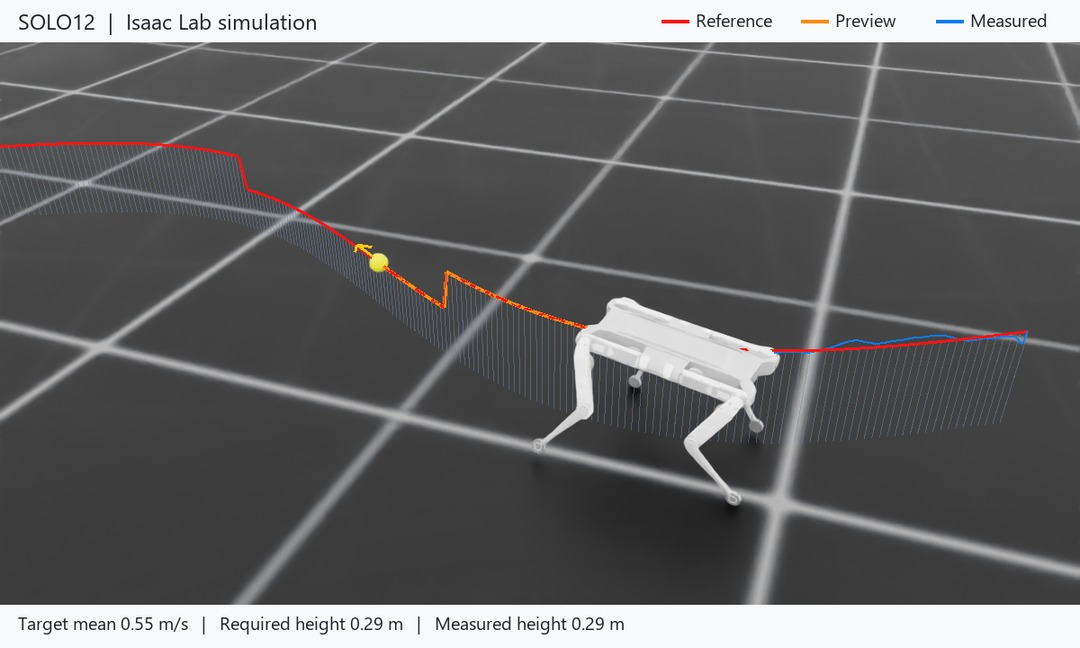
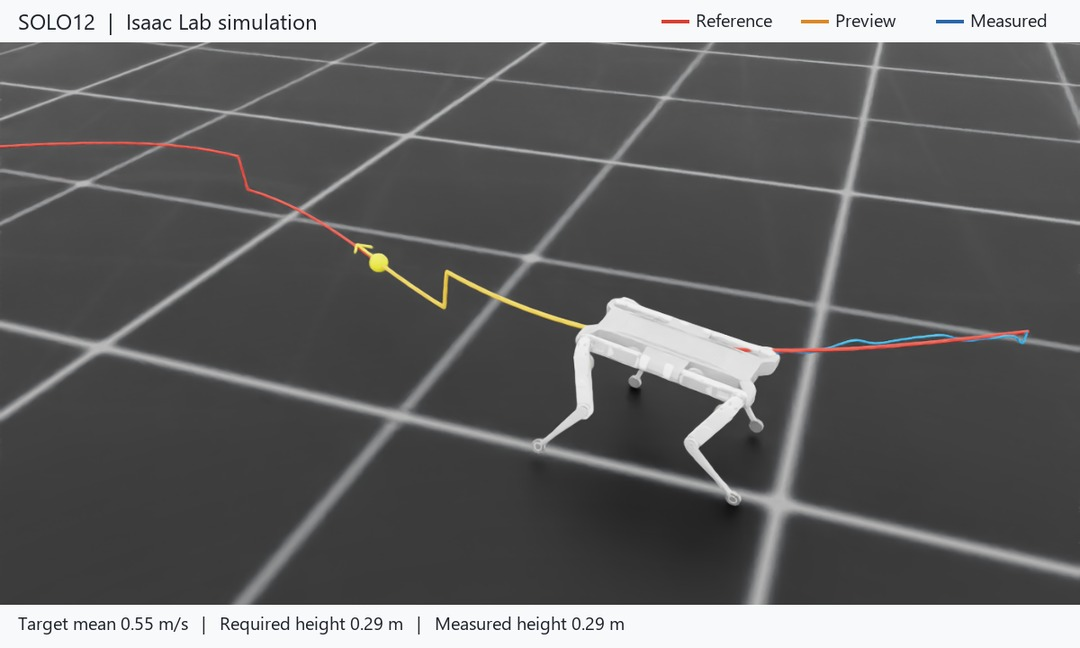
Add clean height-aware viewer preset and refresh demo media

diff --git a/scripts/diffusion_policy/visualization/shaded_lines.py b/scripts/diffusion_policy/visualization/shaded_lines.py
@@ -1,0 +1,94 @@
+"""Shaded, non-colliding line geometry for the optional clean viewer preset."""
+from __future__ import annotations
+import numpy as np
+
+
+def tube_geometry(starts, ends, diameters, *, sides=6):
+    """Preserve line centre coordinates, including vertical height changes."""
+    starts, ends = np.asarray(starts, dtype=float), np.asarray(ends, dtype=float)
+    widths = np.asarray(diameters, dtype=float)
+    if starts.ndim != 2 or starts.shape[1] != 3 or ends.shape != starts.shape:
+        raise ValueError("Line endpoints must have matching (N, 3) shapes.")
+    if widths.shape != (len(starts),) or sides < 3:
+        raise ValueError("One diameter per segment and at least three sides are required.")
+    if not all(np.isfinite(x).all() for x in (starts, ends, widths)) or (widths <= 0).any():
+        raise ValueError("Geometry must be finite and diameters positive.")
+    delta = ends - starts
+    length = np.linalg.norm(delta, axis=1)
+    keep = length > 1e-8
+    starts, ends, widths, delta, length = starts[keep], ends[keep], widths[keep], delta[keep], length[keep]
+    if not len(starts):
+        return np.empty((0, 3), dtype=np.float32), []
+    direction = delta / length[:, None]
+    reference = np.tile([0., 0., 1.], (len(starts), 1))
+    reference[np.abs(direction[:, 2]) > .9] = [0., 1., 0.]
+    lateral = np.cross(direction, reference)
+    lateral /= np.linalg.norm(lateral, axis=1)[:, None]
+    normal = np.cross(direction, lateral)
+    angles = np.arange(sides) * (2*np.pi/sides)
+    radial = (np.cos(angles)[None, :, None]*lateral[:, None, :]
+              + np.sin(angles)[None, :, None]*normal[:, None, :]) * widths[:, None, None]/2
+    points = np.concatenate([starts[:, None, :]+radial, ends[:, None, :]+radial], axis=1)
+    faces = []
+    for segment in range(len(starts)):
+        offset = segment*2*sides
+        for side in range(sides):
+            following = (side+1)%sides
+            faces.extend([offset+side, offset+following, offset+sides+following, offset+sides+side])
+    return points.reshape(-1, 3).astype(np.float32), faces
+
+
+class ShadedLineDraw:
+    """Reusable USD mesh pool matching debug draw's line interface.
+
+    Positions come directly from PathDebugVisualizer. No collision or rigid-body
+    APIs are attached; only material, thickness and rendering backend differ.
+    """
+
+    def __init__(self):
+        from pxr import Gf, Sdf, UsdGeom, UsdShade
+        import omni.usd
+        self.Gf, self.Sdf, self.UsdGeom, self.UsdShade = Gf, Sdf, UsdGeom, UsdShade
+        self.stage = omni.usd.get_context().get_stage()
+        self.meshes, self.materials, self.cursor = [], {}, 0
+
+    def clear_lines(self):
+        self.cursor = 0
+        for mesh in self.meshes:
+            mesh.GetVisibilityAttr().Set("invisible")
+
+    def draw_lines(self, starts, ends, colors, widths):
+        if not len(starts):
+            return
+        if not (len(starts) == len(ends) == len(colors) == len(widths)):
+            raise ValueError("All line attributes must have the same length.")
+        groups = {}
+        for index, color in enumerate(colors):
+            groups.setdefault(tuple(color[:3]), []).append(index)
+        for color, indices in groups.items():
+            selected = np.asarray(indices)
+            points, faces = tube_geometry(np.asarray(starts)[selected], np.asarray(ends)[selected],
+                                          np.asarray(widths)[selected]*.003)
+            if not len(points):
+                continue
+            if self.cursor == len(self.meshes):
+                mesh = self.UsdGeom.Mesh.Define(self.stage, f"/World/Visuals/PathDebug/clean_lines_{self.cursor}")
+                mesh.CreateSubdivisionSchemeAttr("none")
+                mesh.CreateDoubleSidedAttr(True)
+                self.meshes.append(mesh)
+            mesh = self.meshes[self.cursor]
+            self.cursor += 1
+            mesh.GetPointsAttr().Set([self.Gf.Vec3f(*map(float, p)) for p in points])
+            mesh.GetFaceVertexCountsAttr().Set([4]*(len(faces)//4))
+            mesh.GetFaceVertexIndicesAttr().Set(faces)
+            mesh.GetVisibilityAttr().Set("inherited")
+            if color not in self.materials:
+                path = f"/World/Visuals/PathDebug/Materials/clean_{len(self.materials)}"
+                material = self.UsdShade.Material.Define(self.stage, path)
+                shader = self.UsdShade.Shader.Define(self.stage, path+"/Surface")
+                shader.CreateIdAttr("UsdPreviewSurface")
+                shader.CreateInput("diffuseColor", self.Sdf.ValueTypeNames.Color3f).Set(self.Gf.Vec3f(*color))
+                shader.CreateInput("roughness", self.Sdf.ValueTypeNames.Float).Set(.7)
+                material.CreateSurfaceOutput().ConnectToSource(shader.ConnectableAPI(), "surface")
+                self.materials[color] = material
+            self.UsdShade.MaterialBindingAPI.Apply(mesh.GetPrim()).Bind(self.materials[color])

diff --git a/scripts/diffusion_policy/visualization/path_debug_viz.py b/scripts/diffusion_policy/visualization/path_debug_viz.py
@@ -22,6 +22,7 @@ class PathDebugVizCfg:
     show_actual_path: bool = False
     show_height: bool = False
     max_actual_points: int = 750
+    style: str = "classic"
 
     @property
     def enabled(self) -> bool:
@@ -39,7 +40,8 @@ class PathDebugVizCfg:
 class PathDebugVisualizer:
     """Draw a planned path, current target frame and measured robot trace.
 
-    Lines use Isaac Sim's transient debug-draw interface.  The target sphere
+    Classic lines use transient debug draw; the clean preset uses shaded,
+    non-colliding geometry. The target sphere
     is a USD marker instancer, which remains visible and selectable in the
     Stage tree under ``/World/Visuals/PathDebug``.  Heading is intentionally
     represented only by the planar arrow, avoiding redundant XYZ axes.
@@ -56,15 +58,26 @@ class PathDebugVisualizer:
             raise ValueError("PathDebugVisualizer requires at least one enabled overlay.")
         if cfg.max_actual_points < 2:
             raise ValueError("max_actual_points must be at least two.")
+        if cfg.style not in ("classic", "clean"):
+            raise ValueError("Path visualization style must be classic or clean.")
 
         # These imports must remain lazy: this module is importable in unit
         # tests and CLI parsing without starting an Isaac Sim application.
-        import isaacsim.util.debug_draw._debug_draw as omni_debug_draw
         import isaaclab.sim as sim_utils
         from isaaclab.markers import VisualizationMarkers, VisualizationMarkersCfg
 
         self.cfg = cfg
-        self._draw = omni_debug_draw.acquire_debug_draw_interface()
+        if cfg.style == "clean":
+            from .shaded_lines import ShadedLineDraw
+
+            self._draw = ShadedLineDraw()
+            self._REFERENCE_COLOR = (0.85, 0.055, 0.04, 1.0)
+            self._ACTUAL_COLOR = (0.035, 0.30, 0.74, 1.0)
+            self._PREVIEW_COLOR = (0.95, 0.48, 0.06, 1.0)
+        else:
+            import isaacsim.util.debug_draw._debug_draw as omni_debug_draw
+
+            self._draw = omni_debug_draw.acquire_debug_draw_interface()
         self._actual_trace: list[np.ndarray] = []
         self._path_w = np.empty((0, 3), dtype=np.float32)
         self._yaws_w = np.empty((0,), dtype=np.float32)
@@ -115,13 +128,21 @@ class PathDebugVisualizer:
         )
 
     def _draw_height_guides(self) -> None:
-        floor_points = self._path_w.copy()
+        guide_points = self._path_w
+        if self.cfg.style == "clean":
+            changes = np.flatnonzero(np.abs(np.diff(guide_points[:, 2])) > 0.04)
+            indices = np.unique(np.concatenate((
+                np.linspace(0, len(guide_points) - 1, min(8, len(guide_points))).astype(int),
+                changes, changes + 1,
+            )))
+            guide_points = guide_points[indices]
+        floor_points = guide_points.copy()
         floor_points[:, 2] = 0.015
         self._draw.draw_lines(
             floor_points.astype(np.float32).tolist(),
-            self._path_w.astype(np.float32).tolist(),
-            [self._HEIGHT_COLOR] * len(self._path_w),
-            [1.0] * len(self._path_w),
+            guide_points.astype(np.float32).tolist(),
+            [self._HEIGHT_COLOR] * len(guide_points),
+            [1.0] * len(guide_points),
         )
 
     def _draw_heading_arrow(self, position: np.ndarray, yaw: float) -> None:
@@ -165,7 +186,12 @@ class PathDebugVisualizer:
 
         self._draw.clear_lines()
         if self.cfg.show_path:
-            self._draw_polyline(self._draw, self._path_w, self._REFERENCE_COLOR, width=3.0)
+            if self.cfg.style == "clean" and self.cfg.show_preview:
+                # Each segment is drawn once, avoiding red/orange depth fighting.
+                self._draw_polyline(self._draw, self._path_w[: progress + 1], self._REFERENCE_COLOR, width=3.0)
+                self._draw_polyline(self._draw, self._path_w[goal:], self._REFERENCE_COLOR, width=3.0)
+            else:
+                self._draw_polyline(self._draw, self._path_w, self._REFERENCE_COLOR, width=3.0)
         if self.cfg.show_height:
             self._draw_height_guides()
         if self.cfg.show_preview:

diff --git a/scripts/diffusion_policy/visualization/test_path_debug_style.py b/scripts/diffusion_policy/visualization/test_path_debug_style.py
@@ -1,0 +1,81 @@
+"""CPU checks of clean drawing semantics; no Isaac Sim startup required."""
+import numpy as np
+import pytest
+
+from scripts.diffusion_policy.visualization.path_debug_viz import PathDebugVisualizer, PathDebugVizCfg
+from scripts.diffusion_policy.visualization.shaded_lines import tube_geometry
+
+
+class Draw:
+    def __init__(self):
+        self.calls = []
+    def clear_lines(self):
+        self.calls.clear()
+    def draw_lines(self, starts, ends, colors, widths):
+        self.calls.append((np.array(starts), np.array(ends), colors, widths))
+
+
+class Marker:
+    def visualize(self, *, translations):
+        self.position = translations.copy()
+
+
+def visualizer(style="clean", height=False, preview=True):
+    instance = object.__new__(PathDebugVisualizer)
+    instance.cfg = PathDebugVizCfg(show_path=True, show_preview=preview, show_height=height, style=style)
+    instance._draw = Draw()
+    instance._actual_trace = []
+    instance._goal_sphere = None
+    path = np.array([[0,0,.2932], [1,0,.2932], [2,0,.1705], [3,0,.1705], [4,0,.2932]], dtype=np.float32)
+    instance.set_plan(path, np.zeros(len(path)), clear_actual=True)
+    return instance
+
+
+@pytest.mark.parametrize("progress,goal", [(0,0), (0,2), (1,3), (4,4)])
+def test_clean_segments_cover_the_reference_exactly_once(progress, goal):
+    viz = visualizer()
+    viz.update(robot_position_w=[0,0,.29], progress_index=progress, goal_index=goal)
+    rendered = [(tuple(a), tuple(b)) for starts, ends, _, _ in viz._draw.calls for a,b in zip(starts,ends)]
+    expected = [(tuple(a), tuple(b)) for a,b in zip(viz._path_w[:-1],viz._path_w[1:])]
+    assert len(rendered) == len(expected)
+    assert set(rendered) == set(expected)
+
+
+def test_classic_keeps_original_reference_plus_overlay():
+    viz = visualizer("classic")
+    viz.update(robot_position_w=[0,0,.29], progress_index=1, goal_index=3)
+    assert sum(len(call[0]) for call in viz._draw.calls) == 6  # four reference, two preview
+
+
+def test_goal_center_and_yaw_source_are_not_replaced():
+    viz = visualizer()
+    viz._goal_sphere = Marker()
+    viz.update(robot_position_w=[0,0,.29], progress_index=1, goal_index=3)
+    np.testing.assert_array_equal(viz._goal_sphere.position, viz._path_w[3:4])
+
+
+def test_shaded_geometry_keeps_xyz_centrelines_including_vertical_segments():
+    starts = np.array([[0,0,.2932], [1,0,.1705], [2,0,.1705]])
+    ends = np.array([[1,0,.2932], [1,0,.2932], [2,0,.1705]])
+    points, faces = tube_geometry(starts, ends, [.009,.009,.009])
+    rings = points.reshape(2,12,3)  # degenerate final segment omitted
+    np.testing.assert_allclose(rings[:,:6].mean(axis=1), starts[:2], atol=1e-6)
+    np.testing.assert_allclose(rings[:,6:].mean(axis=1), ends[:2], atol=1e-6)
+    assert np.isfinite(points).all()
+    assert len(faces) == 2*6*4
+
+
+def test_optional_clean_height_guides_are_sparse_and_include_height_changes():
+    viz = visualizer(height=True)
+    x = np.linspace(0,4,201)
+    path = np.column_stack([x, np.zeros(len(x)), np.where(x<2,.2932,.1705)]).astype(np.float32)
+    viz.set_plan(path,np.zeros(len(x)),clear_actual=True)
+    viz._draw_height_guides()
+    assert len(viz._draw.calls[0][0]) <= 10
+    assert path[99].tolist() in viz._draw.calls[0][1].tolist()
+    assert path[100].tolist() in viz._draw.calls[0][1].tolist()
+
+
+def test_invalid_style_is_rejected_before_simulation_imports():
+    with pytest.raises(ValueError,match="classic or clean"):
+        PathDebugVisualizer(PathDebugVizCfg(show_path=True,style="invalid"),np.zeros((2,3)),np.zeros(2))

diff --git a/scripts/diffusion_policy/play_policy.py b/scripts/diffusion_policy/play_policy.py
@@ -99,6 +99,11 @@ parser.add_argument(
     help="Refresh viewport overlays every N control steps (default: 2).",
 )
 
+parser.add_argument(
+    "--visualization_style", choices=("classic", "clean"), default="classic",
+    help="Presentation only: classic debug lines or clean shaded lines with no overlapping preview.",
+)
+
 AppLauncher.add_app_launcher_args(parser)
 args_cli, hydra_args = parser.parse_known_args()
 sys.argv = [sys.argv[0]] + hydra_args
@@ -766,6 +771,7 @@ def main(env_cfg: Any, agent_cfg: Any) -> None:
         show_preview=args_cli.visualize_preview,
         show_actual_path=args_cli.visualize_actual_path,
         show_height=args_cli.visualize_height,
+        style=args_cli.visualization_style,
     )
     debug_viz: PathDebugVisualizer | None = None
     if debug_viz_cfg.enabled:

diff --git a/docs/project/media/README.md b/docs/project/media/README.md
@@ -12,7 +12,7 @@ These assets are captured from live closed-loop WC-DPPO playback in Isaac Lab, n
 - Required base height: 0.2932 m, then 0.1705 m between route distances 1.6 and 2.8 m, then 0.2932 m again.
 - Requested route-average speed: 0.55 m/s; instantaneous speed is not commanded to stay constant.
 - Physics at 200 Hz, control at 50 Hz, four actions executed per diffusion plan.
-- Red: the reference XYZ, including required height changes. Grey vertical guides connect it to the ground.
+- Red: the reference XYZ, including required height changes. Ground-to-path guides are hidden for clarity.
 - Orange: the upcoming reference segment. Blue: the measured base trajectory in 3D.
 - Yellow: the native future target, centred on its reference XYZ point; the short golden arrow shows its yaw.
 
@@ -20,7 +20,7 @@ The GIF is a continuous fixed-camera traverse, resampled to 12.5 frames/s and co
 
 The two close-up photos come from the same seeded rollout. The on-image measured heights come from the simulator state. No physics steps are taken while capturing a close-up; the wide camera is restored before recording the next animation frame.
 
-The route, preview, measured trace, sphere and heading arrow are drawn by the existing `PathDebugVisualizer`, exactly as in interactive playback. The sphere marks a future waypoint, so its height can differ from the robot's current required height. It is not an auxiliary guide added for the screenshots. Only the presentation camera and capture mechanism differ; policy inputs, rewards and physics are unchanged.
+The route, preview, measured trace, sphere and heading arrow use `PathDebugVisualizer` with its optional `clean` preset: shaded, non-colliding lines and no dense vertical guides. Orange replaces red along the upcoming segment instead of drawing over it, avoiding red/orange depth conflicts. Coordinates, preview horizon and target selection are unchanged. The sphere marks a future waypoint, so its height can differ from the robot's current required height; it is not an auxiliary guide added for the screenshots. Policy inputs, rewards and physics are unchanged. The original `classic` preset remains the default.
 
 This is an illustrative episode, not a benchmark success rate, proof of optimal temporal allocation, or real-robot validation. Aggregate evidence and limits are in [results](../results.md).
 
@@ -34,7 +34,7 @@ The [route array](demo_route.npy) contains `[x, y, required_height]` points in t
   --path_file docs/project/media/demo_route.npy --path_file_frame robot \
   --desired_speed 0.55 --exec_horizon 4 \
   --visualize_path --visualize_preview --visualize_goal \
-  --visualize_actual_path --visualize_height --device cuda:0
+  --visualize_actual_path --visualization_style clean --device cuda:0
 ```
 
-The interactive viewer uses its usual robot-following camera; the overlays are the same as those captured here. [Provenance](provenance.json) records the actor and visualizer SHA-256, reference, screenshot states, asset hashes and trim rule. Raw frames and capture tooling remain local.
+The interactive viewer uses its usual robot-following camera; the clean preset is the same as that captured here. Add `--visualize_height` if you want sparse ground-to-path guides. [Provenance](provenance.json) records the actor and rendering sources' SHA-256, reference, screenshot states, asset hashes and trim rule. Raw frames and capture tooling remain local.

diff --git a/docs/project/running.md b/docs/project/running.md
@@ -16,16 +16,18 @@ A standing-to-crouching route with path, goal and actual-trajectory overlays:
   --default_path_mode walk_to_crouch --transition_fraction 0.5 \
   --desired_speed 0.45 --exec_horizon 4 \
   --visualize_path --visualize_preview --visualize_goal \
-  --visualize_actual_path --visualize_height --device cuda:0
+  --visualize_actual_path --visualization_style clean --device cuda:0
 ```
 
 PowerShell equivalent on one line:
 
 ```powershell
-.\isaaclab.bat -p scripts/diffusion_policy/play_policy.py --checkpoint checkpoints/policy.pt --num_envs 1 --default_path_mode walk_to_crouch --transition_fraction 0.5 --desired_speed 0.45 --exec_horizon 4 --visualize_path --visualize_preview --visualize_goal --visualize_actual_path --visualize_height --device cuda:0
+.\isaaclab.bat -p scripts/diffusion_policy/play_policy.py --checkpoint checkpoints/policy.pt --num_envs 1 --default_path_mode walk_to_crouch --transition_fraction 0.5 --desired_speed 0.45 --exec_horizon 4 --visualize_path --visualize_preview --visualize_goal --visualize_actual_path --visualization_style clean --device cuda:0
 ```
 
 Red is the reference, blue the measured trace, orange the policy preview. The small yellow goal and heading marker display the current preview target.
+
+The `clean` preset uses shaded lines and draws each reference segment once, avoiding red/orange overpainting. Heights and target coordinates are unchanged. Add `--visualize_height` for sparse vertical guides, or omit `--visualization_style clean` to retain the original debug-line appearance.
 
 For a custom route, use `--path_file path.npy --path_file_frame robot`. Arrays are `[N,3]` for XYZ or `[N,4]` for XYZ/yaw. Robot-frame routes are anchored to the reset pose; use `world` only for world-frame coordinates.
 

diff --git a/README.md b/README.md
@@ -8,7 +8,7 @@ The controller receives a route, a body-height profile and a target average spee
 
 ![SOLO12 following a curved route and changing posture in Isaac Lab](docs/project/media/route_posture_demo.gif)
 
-*A live policy rollout in Isaac Lab: WC-DPPO follows a 4 m curved reference with walk→crouch→walk height requirements and a requested mean of 0.55 m/s. The usual viewer overlays are retained: red is the 3D reference at the required height, orange the upcoming segment, blue the measured base trace, and yellow the future target with its yaw arrow. The GIF shows the active traverse at simulated speed—not hardware or a wall-clock real-time demonstration. [Demo details and reference](docs/project/media/README.md).*
+*A live policy rollout in Isaac Lab: WC-DPPO follows a 4 m curved reference with walk→crouch→walk height requirements and a requested mean of 0.55 m/s. The clean viewer preset retains the native coordinates: red is the 3D reference at the required height, orange the upcoming segment, blue the measured base trace, and yellow the future target with its yaw arrow. The GIF shows the active traverse at simulated speed—not hardware or a wall-clock real-time demonstration. [Demo details and reference](docs/project/media/README.md).*
 
 ## From existing behaviours to path-conditioned control
 
